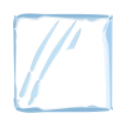
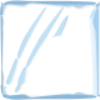
fix

diff --git a/game321/js/main.js b/game321/js/main.js
@@ -16,7 +16,7 @@ window.onload = function() {
     function preload() {
         // Load an image and call it 'logo'.
         game.load.image( 'marsh', 'assets/Marsh.png' );
-        game.load.image( 'wet_marsh', 'assets/Marsh.png' );
+        game.load.image( 'wet_marsh', 'assets/wet_marsh.png' );
         game.load.image( 'sunrise', 'assets/sunrise.png' );
         game.load.image( 'ice', 'assets/ice.png' );
         game.load.image( 'fire', 'assets/fire.gif');
@@ -25,7 +25,6 @@ window.onload = function() {
         game.load.image('ground3', 'assets/ground3.png');
     }
     
-    var bouncy;
     
     var player;
     var input;
@@ -33,9 +32,11 @@ window.onload = function() {
     var water;
     var wet=false;
     var platforms;
+    var text;
+    var firenum=3;
     var ice;
     function create() {
-
+        wet=false;
         game.add.sprite(0,0,'sunrise');
         
         ice=game.add.group();
@@ -52,28 +53,47 @@ window.onload = function() {
         var ledge = platforms.create(400, 400, 'ground3');
         ledge.body.immovable = true;
         ledge.scale.setTo(2,1/2);
-        var ledge = platforms.create(0, 300, 'ground3');
+        ledge = platforms.create(0, 300, 'ground3');
+        ledge.body.immovable = true;
+        ledge=platforms.create(200, 400, 'ground3');
+        ledge.scale.setTo(1/2,4);
         ledge.body.immovable = true;
         
+        ledge=platforms.create(592, 220, 'ground3');
+        ledge.scale.setTo(1/2,2);
+        ledge.body.immovable = true;
 
-        player=game.add.sprite(game.world.centerX,game.world.centerY,'marsh');
-        game.physics.arcade.enable(player);
-        input=game.input.keyboard.createCursorKeys();
-        player.body.collideWorldBounds=true;
-        player.body.gravity.y = 140;  
-        player.body.velocity.y=-1;
-        player.scale.setTo(1/2,1/2); 
-        player.body.bounce.set(0,1.2);    
-        
+        ledge=platforms.create(700, 100, 'ground3');
+        ledge.body.immovable = true;
+
         star=game.add.group();
-        star.create(0, 0,'fire');
-        star.scale.setTo(5,5);
-        /*water=game.add.sprite(game.world.centerX ,game.world.centerY,'water');*/
-        /*var style = { font: "15px Verdana", fill: "#9999ff", align: "center" };
-        var text = game.add.text( game.world.centerX, 15, "Gotta Put Out The Star!", style );
+        star.enableBody = true;
+        
+        var fire =star.create(0, 223,'fire');
+        fire.scale.setTo(4,4);
+        
+        fire =star.create(0,game.world.height - 110 ,'fire');
+        fire.scale.setTo(4,4);
+
+        fire =star.create(700,20,'fire');
+        fire.scale.setTo(4,4);
+        
+        water=game.add.group();
+        water.enableBody=true;
+        
+        var w1=water.create(530,396,'water');
+        w1.scale.setTo(1/2,1/2);
+/*
+        ice=game.add.group();
+        var i1=ice.create(game.world.centerX +300,game.world.centerY-100,'ice');
+        i1.scale.setTo(1/2,1/2);
+*/
+        createPlayer();
+        var style = { font: "15px Verdana", fill: "#9999ff", align: "center" };
+        text = game.add.text( game.world.centerX, 15, "Gotta Put Out The Star!", style );
         text.anchor.setTo( 0.5, 0.0 );
 
-        */
+    
     }
     
     function update() {
@@ -104,39 +124,57 @@ window.onload = function() {
     if(player.body.velocity.y>200){
         player.body.velocity.y=200;
     }
-/*
+
     game.physics.arcade.overlap(player, water,inWater,null,this);
-    game.physics.arcade.overlap(player, ice, onIce,null,this);*/
+    //game.physics.arcade.overlap(player, ice, onIce,null,this);
     game.physics.arcade.overlap(player,star, onStar,null,this);
     
 
     }
 
-    /*
+
     function inWater(){
         wet=true;
         player.loadTexture('wet_marsh');
     }
+
+    /*
     function onIce(){
         player.kill();
         ice.create(player.x, player.y, 'ice');
-        player=game.add.sprite(game.world.centerX-400,game.world.centerY=+200,'marsh');
+        createPlayer();
         wet=false;
     }*/
 
-    function onStar(){
+    function onStar(player,star){
         if(!wet){
         player.kill();
-        player=game.add.sprite(game.world.centerX-400,game.world.centerY=+200,'marsh');
-        }
-        else{
-            star.kill();
-            wet=false;
-
-            //only one fire in the game so players win when it's put out.
-            
-        game.add.text(game.world.centerX,game.world.centerY, 'You stopped the star!');
+       createPlayer();
     }
-
+        else{    
+        star.kill();
+        firenum--;
+            wet=false;
+            player.loadTexture("marsh");
+            //only one fire in the game so players win when it's put out.
+            text.kill();
+            if(firenum==0){
+        game.add.text(game.world.centerX, 15, 'You stopped the Fire!');
+            }
+    }
+    }
+    function createPlayer(){
+        
+        player=game.add.sprite(game.world.centerX,game.world.centerY,'marsh');
+        
+        player.loadTexture('marsh');
+        game.physics.arcade.enable(player);
+        input=game.input.keyboard.createCursorKeys();
+        player.body.collideWorldBounds=true;
+        player.body.gravity.y = 140;  
+        player.body.velocity.y=-1;
+        player.scale.setTo(1/2,1/2); 
+        player.body.bounce.set(0,1.2);    
+        
     }
 };
